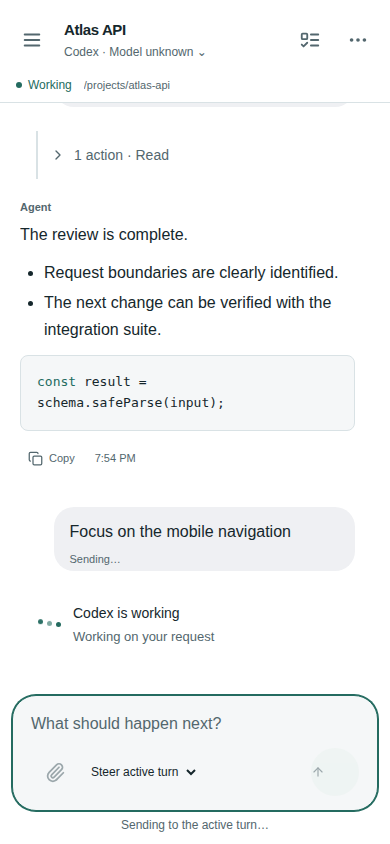
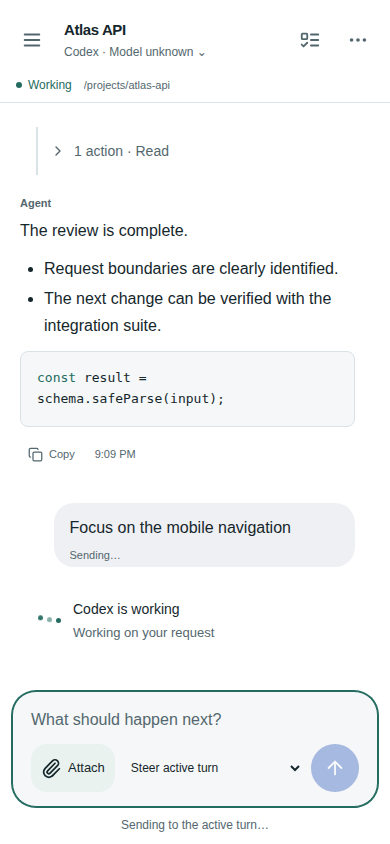
Record live image steering proof and clarify DSH session controls

diff --git a/apps/web/src/App.tsx b/apps/web/src/App.tsx
@@ -1651,11 +1651,13 @@ function SessionDetails({ session: s }: { session: SessionView }) {
           ['Connection', s.connected ? 'Connected' : 'Disconnected'],
           [
             'Control mode',
-            s.ownership === 'gateway-native'
-              ? 'Native bridge'
-              : s.ownership === 'herdr-cli'
-                ? 'Existing Herdr session'
-                : 'Observation',
+            s.harness === 'dsh'
+              ? 'Existing DSH web session'
+              : s.ownership === 'gateway-native'
+                ? 'Native bridge'
+                : s.ownership === 'herdr-cli'
+                  ? 'Existing Herdr session'
+                  : 'Observation',
           ],
           ['Native session', s.nativeSessionId],
         ].map(([label, value]) => (

diff --git a/apps/web/src/DshModel.tsx b/apps/web/src/DshModel.tsx
@@ -46,7 +46,12 @@ export function DshModel({ session }: { session: SessionView }) {
           <label>
             Model
             <select
-              value={choice || (current ? JSON.stringify(current) : '')}
+              value={
+                choice ||
+                (current
+                  ? JSON.stringify({ provider: current.provider, model: current.model })
+                  : '')
+              }
               onChange={(e) => setChoice(e.target.value)}
               disabled={mutation.isPending}
             >

diff --git a/docs/VALIDATION.md b/docs/VALIDATION.md
@@ -68,3 +68,5 @@ Release `be6e77c` was deployed on Fred; gateway health passed and the public pag
 The DSH web host's conflicting services and unloaded/restricted model catalog were repaired. A real isolated native session selected CFRproxy's `codex/gpt-6.1-sol`, completed a prompt with `DSH_MODEL_SELECTION_OK`, and accepted provider/model changes through the native session API. Relay's DSH fixtures exercise discovery, history pagination, reconnect deduplication, stream positions after reasoning chunks, model selection, steering and session removal.
 
 The mobile suite now has 12 passing cases, including repeated CDP touch taps on Attach while working, native file chooser events for both files and photos, active-turn upload delivery without a task-queue request, and send-icon geometric centering at a 390×520 keyboard-sized viewport. Screenshots: `attach-keyboard-mobile.png`, `steer-attachments-mobile.png`. This is browser touch emulation; the physical Android keyboard, camera and picker still need device confirmation.
+
+Live follow-up: a real existing Codex CLI under Herdr accepted an image through the actual native `turn/steer` pathway while its turn was confirmed active. Its final answer read `MOBILE 7392` from image pixels; that text was not in the prompt. The reply stayed in the active turn, with no queued task. A separate file-reference test exposed that the isolated session has no file-reading tools; regular document references require those tools. DSH discovery reported 118 connected native sessions, loaded the existing structured history and completed a Relay-sent prompt with `RELAY_DSH_SEND_OK`.
